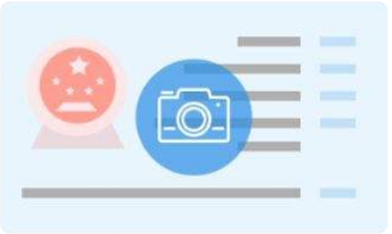
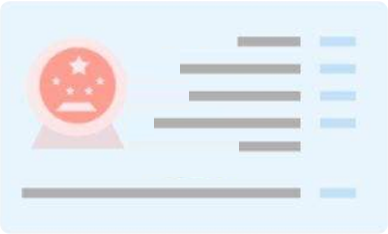
commit

diff --git a/pages/index/index.js b/pages/index/index.js
@@ -1,6 +1,7 @@
 //index.js
 //获取应用实例
 const app = getApp()
+const user = require('../../utils/user.js');
 const util = require('../../utils/util.js');
 const api = require('../../config/api.js');
 
@@ -88,7 +89,21 @@ Page({
     })
   },
   onLoad: function () {
+    let data = {}
+    util.request(api.UserHomePageGet, data).then((res) => {
+      console.log(res)
+    })
+  },
 
+  onShow: function () {
+
+  },
+
+  // 获取用户信息
+  getuserinfo: async function (e) {
+    console.log('getUserInfo', e)
+    app.userInfo = e.detail.userInfo
+    await user.loginByWeixin(app.userInfo)
   },
 
   // 选择小区
@@ -112,11 +127,10 @@ Page({
 
   // 申请团长
   applyTap: function () {
-    let data = {}
-    util.request(api.Login, data).then((res) => {
-      console.log(res)
-    })
-    util.navigateTo('/pages/home/applyFill/applyFill')
+    let userInfo = app.userInfo
+    if (userInfo) {
+      util.navigateTo('/pages/home/applyFill/applyFill')
+    }
   },
 
   // 用户的团购

diff --git a/utils/user.js b/utils/user.js
@@ -47,16 +47,21 @@ function login () {
 function loginByWeixin (userInfo) {
   return new Promise(function (resolve, reject) {
     return login().then((res) => {
+      let JsCode = res.code
+      let nickName = userInfo.nickName
+      let avatarUrl = userInfo.avatarUrl
+      let gender = userInfo.gender
       //登录远程服务器
-      util.request(api.AuthLoginByWeixin, {
-        code: res.code,
-        userInfo: userInfo
+      util.request(api.Login, {
+        JsCode: JsCode,
+        nickName: nickName,
+        avatarUrl: avatarUrl,
+        gender: gender
       }, 'POST').then(res => {
         if (res.errno === 0) {
           //存储用户信息
           wx.setStorageSync('userInfo', res.data.userInfo);
           wx.setStorageSync('token', res.data.token);
-
           resolve(res);
         } else {
           reject(res);

diff --git a/utils/util.js b/utils/util.js
@@ -1,4 +1,4 @@
-const Md5 = require('../config/md5.js')
+const md5handler = require('../config/md5.js')
 
 const formatTime = date => {
   const year = date.getFullYear()
@@ -37,7 +37,8 @@ export const processing = (api, data) => {
         paramdata += data[item]
       })
       paramdata = `${AppSecert}${paramdata}${AppSecert}`
-      sign = Md5.hashStr(paramdata).toString()
+      //生成签名
+      sign = md5handler.md5(paramdata).toLocaleLowerCase()
       let systemdata = {
         Appkey: Appkey,
         V: 1,

diff --git a/app.js b/app.js
@@ -14,17 +14,6 @@ App({
         }
       })
     })
-    // 展示本地存储能力
-    var logs = wx.getStorageSync('logs') || []
-    logs.unshift(Date.now())
-    wx.setStorageSync('logs', logs)
-    // 登录
-    wx.login({
-      success: res => {
-        console.log(res)
-        // 发送 res.code 到后台换取 openId, sessionKey, unionId
-      }
-    })
     // 获取用户信息
     wx.getSetting({
       success: res => {

diff --git a/pages/home/applyUpload/applyUpload.js b/pages/home/applyUpload/applyUpload.js
@@ -11,7 +11,7 @@ Page({
     active: 1,
     positiveCard: '/static/images/positive_card.png',
     reverseCard: '/static/images/reverse_card.png',
-    cameraIcon: '/static/images/logo.png'
+    cameraIcon: '/static/images/camera_icon.png'
   },
 
   /**
